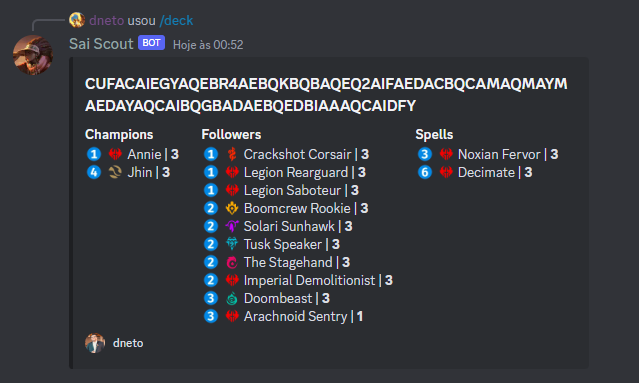
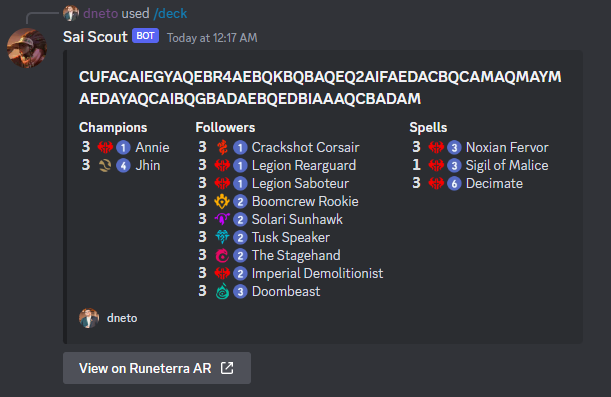
Update deck command UI

diff --git a/commands/deck.go b/commands/deck.go
@@ -10,6 +10,7 @@ import (
 	"github.com/dneto/sai-scout/discord"
 	"github.com/dneto/sai-scout/regions"
 	"github.com/samber/lo"
+	"golang.org/x/text/width"
 )
 
 type DeckDecoder interface {
@@ -30,11 +31,11 @@ var DeckCommand = func(decoder DeckDecoder) *discord.Command {
 				},
 			},
 		},
-		handler(decoder),
+		deckCommandHandler(decoder),
 	)
 }
 
-func handler(decoder DeckDecoder) func(s *discordgo.Session, i *discordgo.InteractionCreate) (*discordgo.InteractionResponse, error) {
+func deckCommandHandler(decoder DeckDecoder) func(s *discordgo.Session, i *discordgo.InteractionCreate) (*discordgo.InteractionResponse, error) {
 	return func(s *discordgo.Session, i *discordgo.InteractionCreate) (*discordgo.InteractionResponse, error) {
 		options := i.ApplicationCommandData().Options
 		deckCode := options[0].Value.(string)
@@ -54,22 +55,32 @@ func handler(decoder DeckDecoder) func(s *discordgo.Session, i *discordgo.Intera
 		}
 
 		typesShowOrder := []string{"Champions", "Followers", "Spells", "Landmarks", "Equipments"}
-		fields := make([]*discordgo.MessageEmbedField, len(typesShowOrder))
-		for i, t := range typesShowOrder {
-			cardsByTypeT := cardsByType[t]
-
-			if len(cardsByTypeT) == 0 {
+		fields := []*discordgo.MessageEmbedField{}
+		for _, t := range typesShowOrder {
+			if len(cardsByType[t]) == 0 {
 				continue
 			}
 
-			cards := lo.Map(cardsByTypeT, func(de deck.DeckEntry, _ int) string {
+			cards := lo.Map(cardsByType[t], func(de deck.DeckEntry, _ int) string {
 				return cardToStr(de)
 			})
 
-			fields[i] = &discordgo.MessageEmbedField{
+			cs := lo.Chunk(cards, 10)
+
+			fields = append(fields, &discordgo.MessageEmbedField{
 				Name:   t,
-				Value:  strings.Join(cards, "\n"),
+				Value:  strings.Join(cs[0], "\n"),
 				Inline: true,
+			})
+
+			for _, c := range cs[1:] {
+				title := ""
+				inline := true
+				fields = append(fields, &discordgo.MessageEmbedField{
+					Name:   title,
+					Value:  strings.Join(c, "\n"),
+					Inline: inline,
+				})
 			}
 		}
 
@@ -78,6 +89,17 @@ func handler(decoder DeckDecoder) func(s *discordgo.Session, i *discordgo.Intera
 				{
 					Title:  deckCode,
 					Fields: fields,
+				},
+			},
+			Components: []discordgo.MessageComponent{
+				discordgo.ActionsRow{
+					Components: []discordgo.MessageComponent{
+						discordgo.Button{
+							Style: discordgo.LinkButton,
+							Label: "View on Runeterra AR",
+							URL:   "https://runeterra.ar/decks/code/" + deckCode,
+						},
+					},
 				},
 			},
 		}
@@ -103,24 +125,27 @@ func cardToStr(c deck.DeckEntry) string {
 		rs = rs + regions.Emote(r)
 	}
 
-	return fmt.Sprintf("%s %s %s | **%d**", costEmoji[c.Card.Cost], rs, c.Card.Name, c.Count)
+	n := width.Widen.String(fmt.Sprint(c.Count))
+	return fmt.Sprintf("**%s** %s%s %s", n, rs, costEmoji[c.Card.Cost], c.Card.Name)
 }
 
 var costEmoji = map[int]string{
-	0:  "<:0_:1086337952310906983>",
-	1:  "<:1_:1086331931286851654>",
-	2:  "<:2_:1086333429311877170>",
-	3:  "<:3_:1086333430712782948>",
-	4:  "<:4_:1086333433086746816>",
-	5:  "<:5_:1086333434433122504>",
-	6:  "<:6_:1086333436811296899>",
-	7:  "<:7_:1086333437876650050>",
-	8:  "<:8_:1086333439407554592>",
-	9:  "<:9_:1086333441785737366>",
-	10: "<:10:1086333443085971508>",
-	11: "<:11:1086333445350891741>",
-	12: "<:12:1086333481979756584>",
-	13: "<:13:1086333447645188106>",
-	14: "<:14:1086333450295984228>",
-	15: "<:15:1086333483032518768>",
+	0:  "<:0_:1088290496906018869>",
+	1:  "<:1_:1088291515400466524>",
+	2:  "<:2_:1088291517069787147>",
+	3:  "<:3_:1088291520072925274>",
+	4:  "<:4_:1088291522589495406>",
+	5:  "<:5_:1088291525303210034>",
+	6:  "<:6_:1088291527899480084>",
+	7:  "<:7_:1088293024435556394>",
+	8:  "<:8_:1088293026541097020>",
+	9:  "<:9_:1088293029070262282>",
+	10: "<:10:1088293030471155762>",
+	11: "<:11:1088293032845115464>",
+	12: "<:12:1088293034787086346>",
+	13: "<:13:1088293037261717524>",
+	14: "<:14:1088293040155807755>",
+	15: "<:15:1088293041594433637>",
+	16: "<:16:1088293042957602816>",
+	17: "<:17:1088293045490958356>",
 }

diff --git a/commands/deck_test.go b/commands/deck_test.go
@@ -29,7 +29,7 @@ var _ = Describe("DeckCommand", func() {
 				}, nil
 			}
 
-			h := handler(decoder)
+			h := deckCommandHandler(decoder)
 			session := &discordgo.Session{}
 			interaction := &discordgo.InteractionCreate{
 				Interaction: &discordgo.Interaction{
@@ -62,28 +62,42 @@ var _ = Describe("DeckCommand", func() {
 				[]*discordgo.MessageEmbedField{
 					{
 						Name:   "Champions",
-						Value:  "<:1_:1086331931286851654> <:nx:1086330895214071921> Annie | **1**",
+						Value:  "**１** <:nx:1088276202944479342><:1_:1088291515400466524> Annie",
 						Inline: true,
 					},
 					{
 						Name:   "Followers",
-						Value:  "<:1_:1086331931286851654> <:nx:1086330895214071921> Crimson Pigeon | **1**",
+						Value:  "**１** <:nx:1088276202944479342><:1_:1088291515400466524> Crimson Pigeon",
 						Inline: true,
 					},
 					{
 						Name:   "Spells",
-						Value:  "<:1_:1086331931286851654> <:nx:1086330895214071921> Blade's Edge | **1**",
+						Value:  "**１** <:nx:1088276202944479342><:1_:1088291515400466524> Blade's Edge",
 						Inline: true,
 					},
 					{
 						Name:   "Landmarks",
-						Value:  "<:1_:1086331931286851654> <:nx:1086330895214071921> Ravenbloom Conservatory | **1**",
+						Value:  "**１** <:nx:1088276202944479342><:1_:1088291515400466524> Ravenbloom Conservatory",
 						Inline: true,
 					},
 					{
 						Name:   "Equipments",
-						Value:  "<:1_:1086331931286851654> <:nx:1086330895214071921> The Darkin Ballista | **1**",
+						Value:  "**１** <:nx:1088276202944479342><:1_:1088291515400466524> The Darkin Ballista",
 						Inline: true,
+					},
+				},
+			))
+		})
+
+		It("should have Runeterra AR button", func() {
+			Expect(resp.Data.Components[0]).To(Equal(
+				discordgo.ActionsRow{
+					Components: []discordgo.MessageComponent{
+						discordgo.Button{
+							Style: discordgo.LinkButton,
+							Label: "View on Runeterra AR",
+							URL:   "https://runeterra.ar/decks/code/" + "DECKCODE",
+						},
 					},
 				},
 			))

diff --git a/regions/regions.go b/regions/regions.go
@@ -48,17 +48,17 @@ var regionRef = map[Region]string{
 }
 
 var emote = map[Region]string{
-	Demacia:      "<:de:1086330563151024239>",
-	Freljord:     "<:fr:1086325335508926495>",
-	Noxus:        "<:nx:1086330895214071921>",
-	Ionia:        "<:io:1086330367771934790>",
-	PiltoverZaun: "<:pz:1086330622022258738>",
-	ShadowIsles:  "<:si:1086329487337214145>",
-	Bilgewater:   "<:bw:1086330365154697278>",
-	Shurima:      "<:sh:1086330373333602425>",
-	Targon:       "<:mt:1086330369420308511>",
-	BandleCity:   "<:bc:1086330363841876058>",
-	Runeterra:    "<:ru:1086330371844624525>",
+	Demacia:      "<:de:1088275845698818109>",
+	Freljord:     "<:fr:1088274715405209600>",
+	Noxus:        "<:nx:1088276202944479342>",
+	Ionia:        "<:io:1088274155755028520>",
+	PiltoverZaun: "<:pz:1088276832383668254>",
+	ShadowIsles:  "<:si:1088278489356042332>",
+	Bilgewater:   "<:bw:1088278952830832671>",
+	Shurima:      "<:sh:1088282276753846272>",
+	Targon:       "<:mt:1088281324177076244>",
+	BandleCity:   "<:bc:1088281710996770878>",
+	Runeterra:    "<:ru:1088281714721300511>",
 }
 
 func (r *Region) Short() string {
